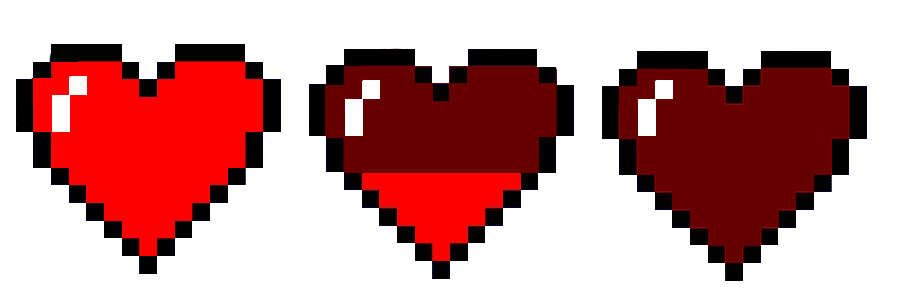
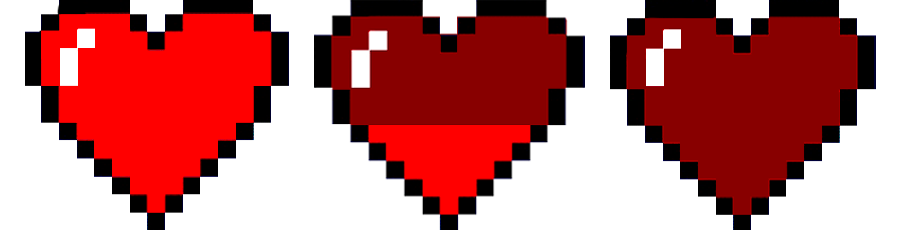
fix(lifebar): size

diff --git a/src/helpers/lifebar.c b/src/helpers/lifebar.c
@@ -14,7 +14,7 @@ lifebar_t *create_lifebar(void)
 
     lifebar->texture = sfTexture_createFromFile(LIFE_BAR_P, NULL);
     lifebar->sprite = sfSprite_create();
-    lifebar->width = get_texture_width(lifebar->texture);
+    lifebar->width = get_texture_width(lifebar->texture) - 1;
     lifebar->height = get_texture_height(lifebar->texture);
     lifebar->size = lifebar->width / 3;
     lifebar->rect = (sfIntRect) {0, 0, lifebar->size, lifebar->height};
@@ -31,10 +31,18 @@ void update_lifebar(game_t *game, int lives)
     lifebar_t *lifebar = game->lifebar;
     sfIntRect rect = lifebar->rect;
 
-    if (lives == 3) rect.left = 0;
-    if (lives == 2) rect.left = lifebar->size;
-    if (lives == 1) rect.left = lifebar->size * 2;
-    if (lives == 0) rect.left = lifebar->size * 3;
+    if (lives == 2) {
+        rect.left = lifebar->size - 2;
+        rect.height = lifebar->height - 1;
+    }
+    if (lives == 1) {
+        rect.left = (lifebar->size - 3) * 2;
+        rect.height = lifebar->height - 2;
+    }
+    if (lives == 0) {
+        rect.left = (lifebar->size - 4) * 3;
+        rect.height = lifebar->height - 3;
+    }
 
     sfSprite_setTextureRect(lifebar->sprite, rect);
     sfRenderWindow_drawSprite(game->window, lifebar->sprite, NULL);
